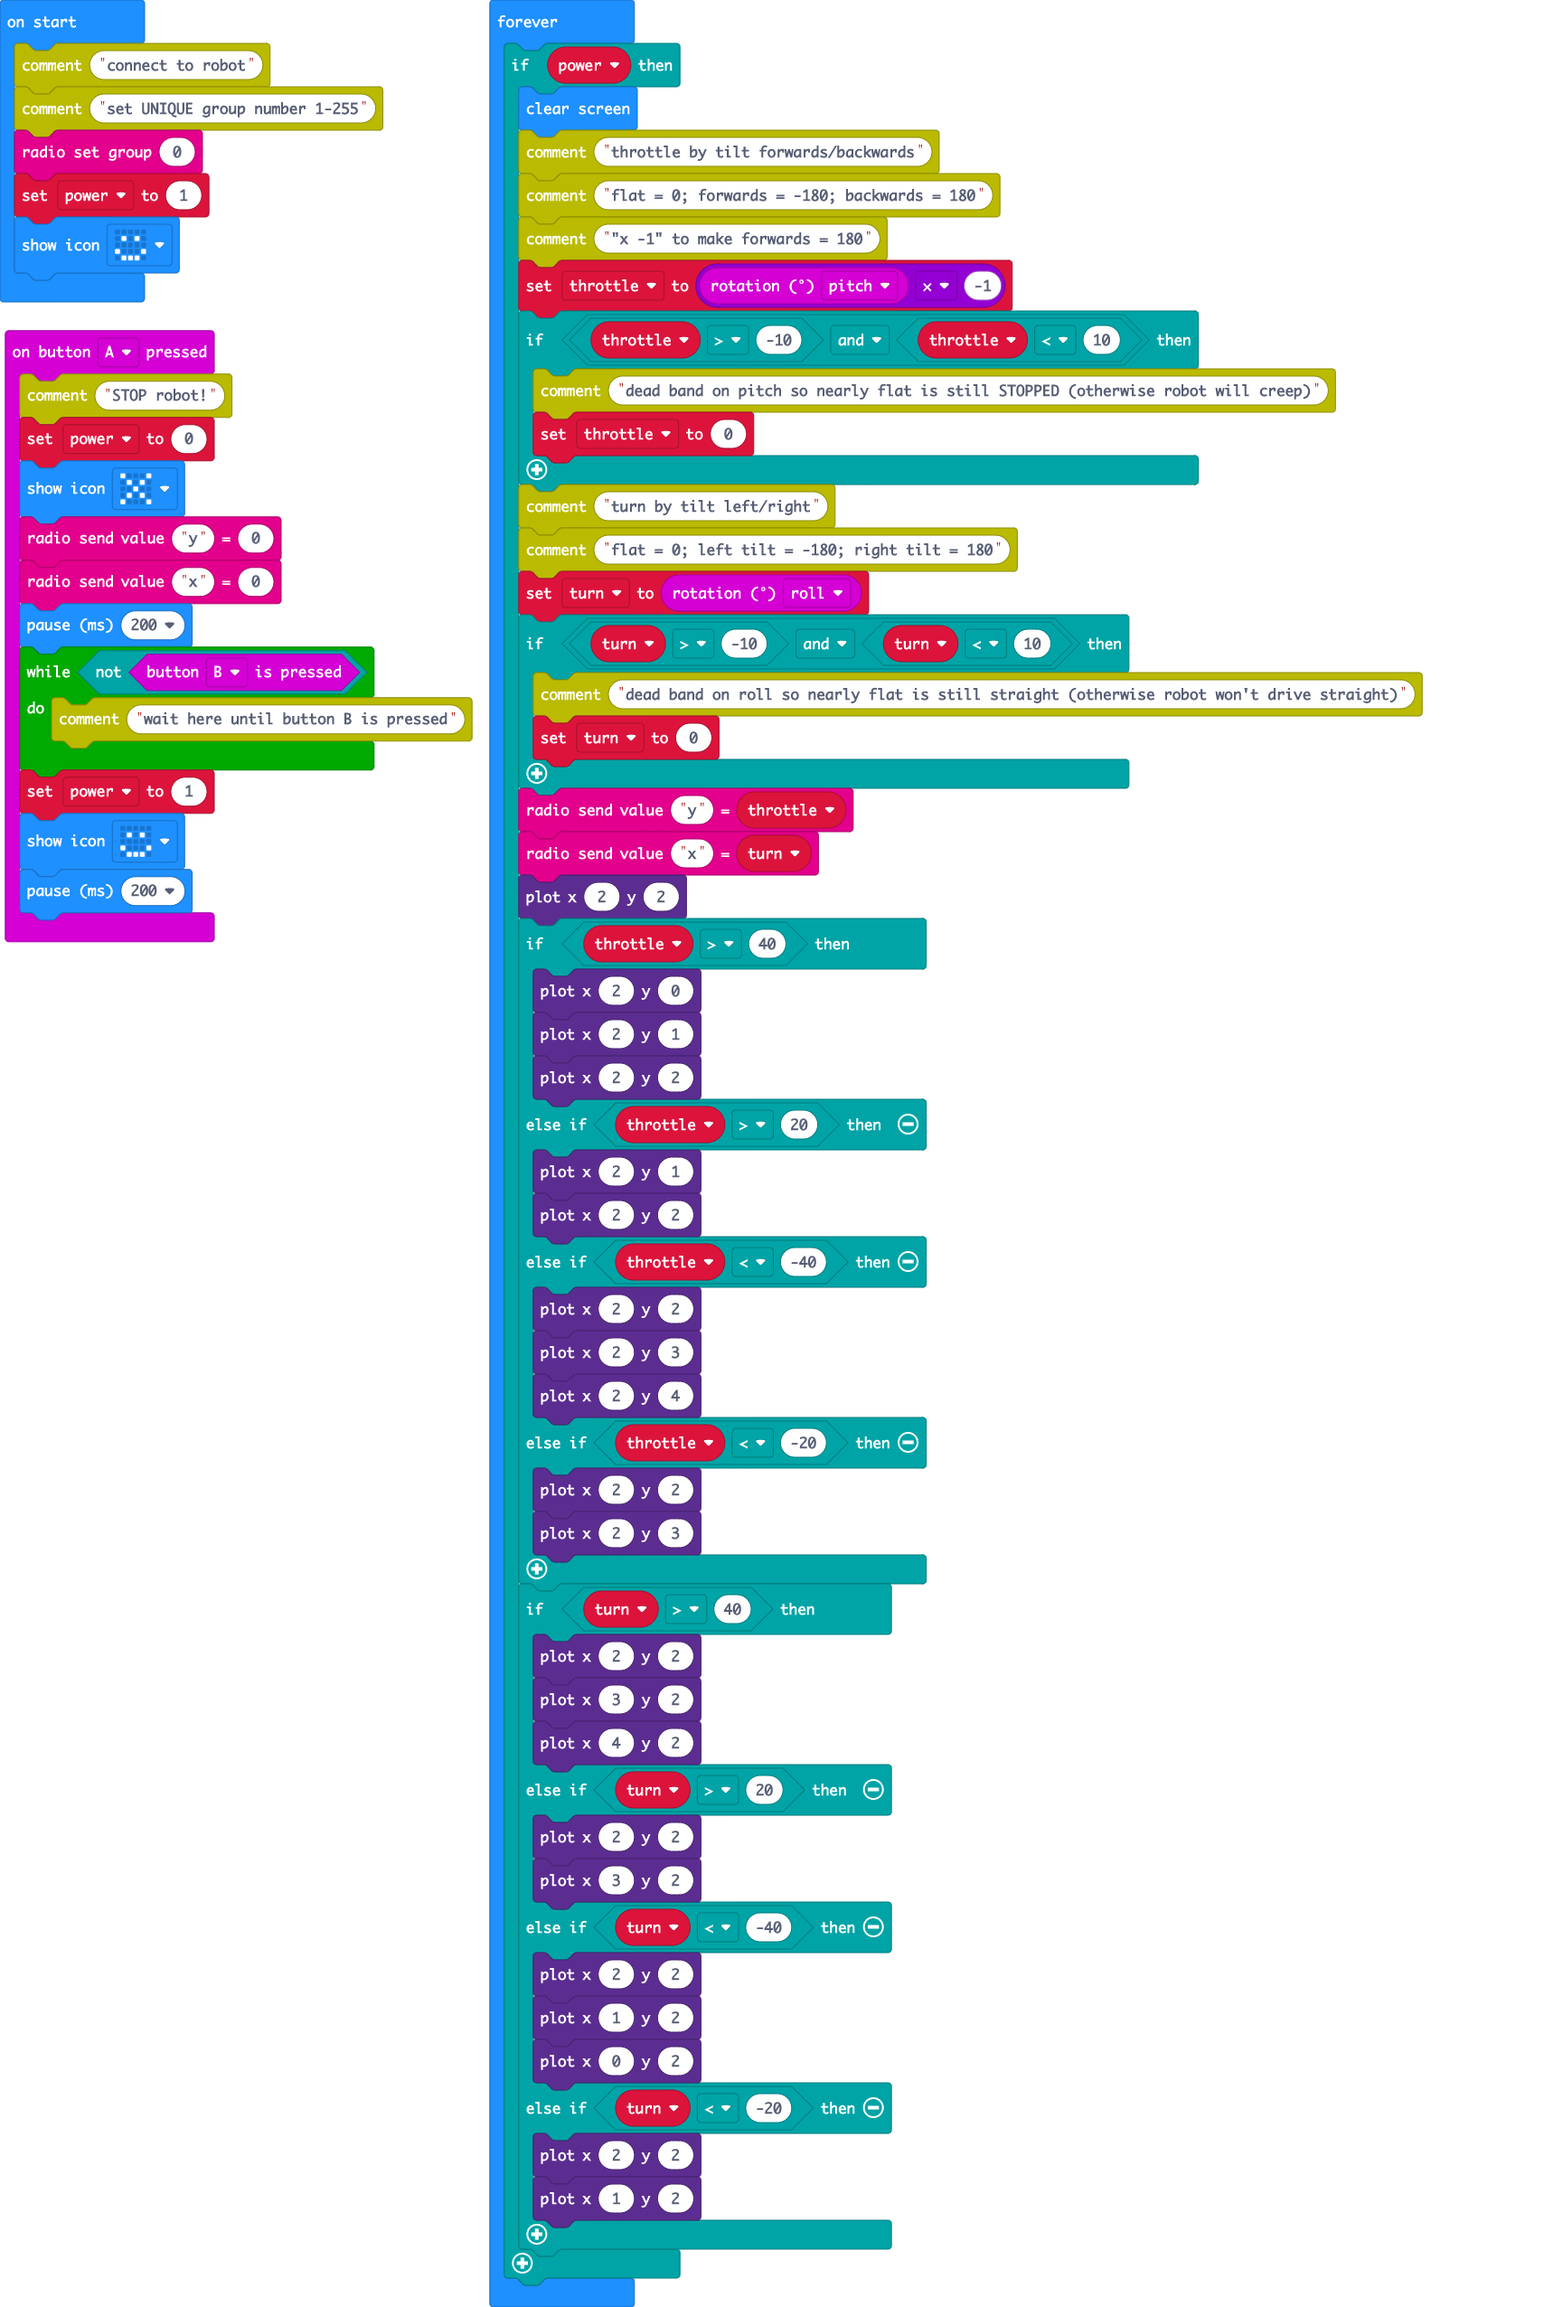
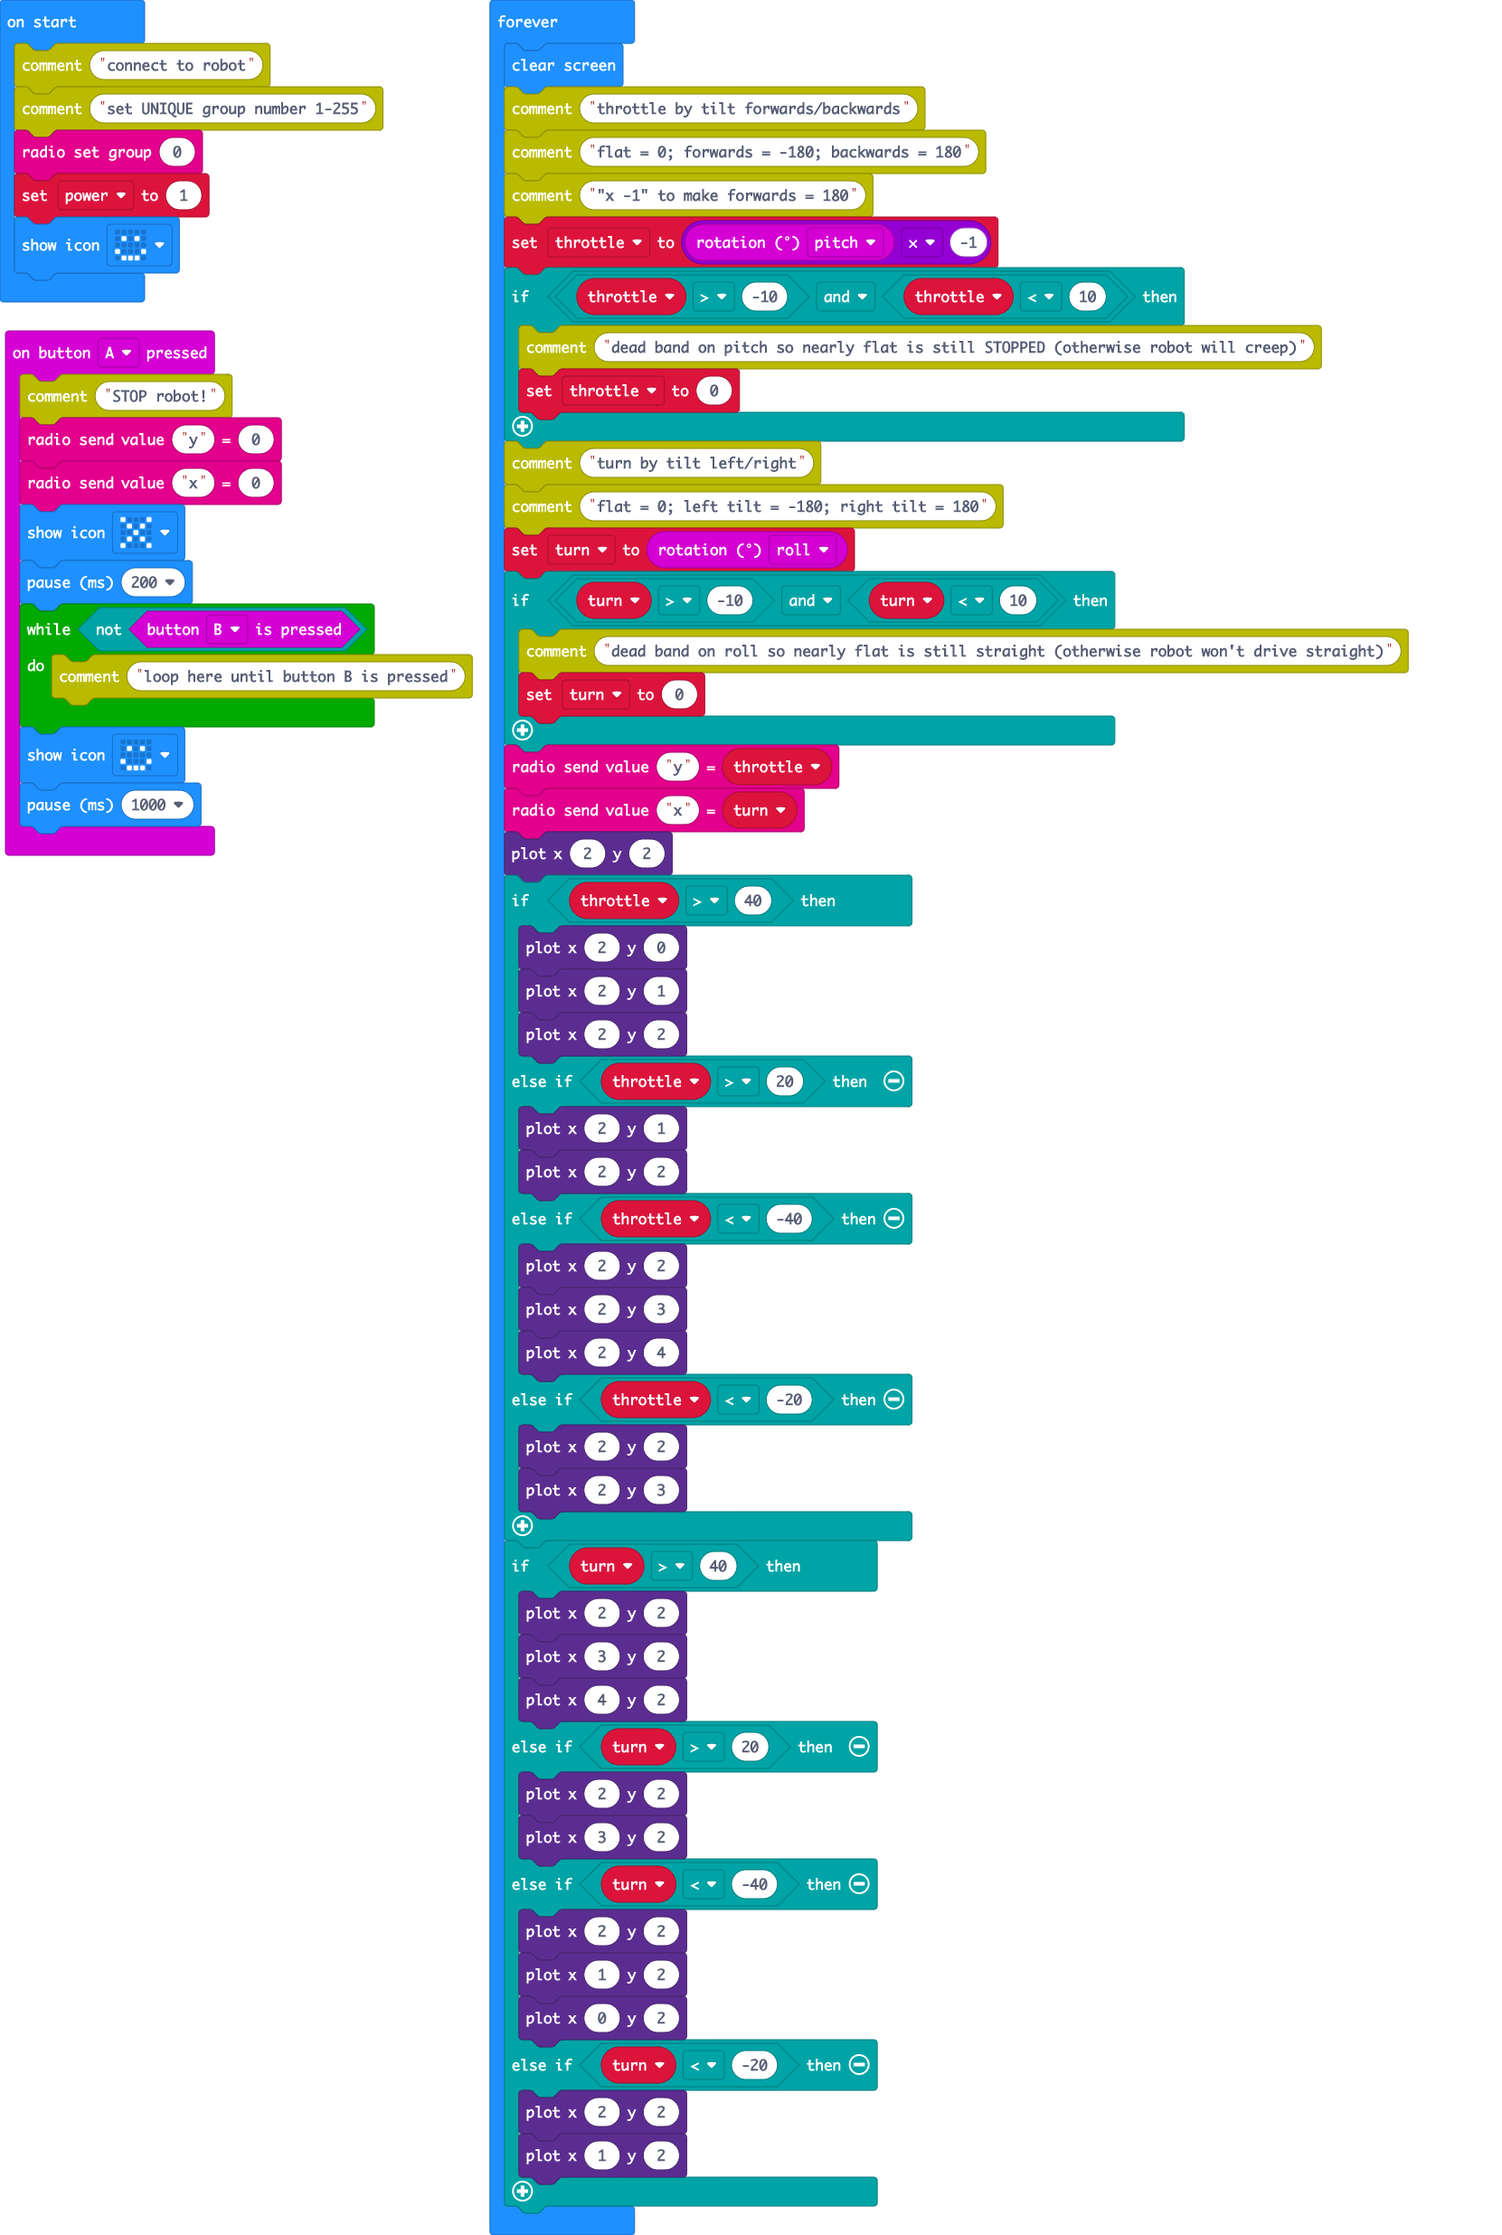
Update main.blocks, main.ts

Changed region(s): [[0.0, 0.0, 0.9518, 1.0]]

diff --git a/main.ts b/main.ts
@@ -1,75 +1,70 @@
 input.onButtonPressed(Button.A, function () {
     comment.comment("STOP robot!")
-    power = 0
-    basic.showIcon(IconNames.No)
     radio.sendValue("y", 0)
     radio.sendValue("x", 0)
+    basic.showIcon(IconNames.No)
     basic.pause(200)
     while (!(input.buttonIsPressed(Button.B))) {
-        comment.comment("wait here until button B is pressed")
+        comment.comment("loop here until button B is pressed")
     }
-    power = 1
     basic.showIcon(IconNames.Happy)
-    basic.pause(200)
+    basic.pause(1000)
 })
 let turn = 0
 let throttle = 0
-let power = 0
 comment.comment("connect to robot")
 comment.comment("set UNIQUE group number 1-255")
 radio.setGroup(0)
-power = 1
+let power = 1
 basic.showIcon(IconNames.Happy)
 basic.forever(function () {
-    if (power) {
-        basic.clearScreen()
-        comment.comment("throttle by tilt forwards/backwards")
-        comment.comment("flat = 0; forwards = -180; backwards = 180")
-        comment.comment("\"x -1\" to make forwards = 180")
-        throttle = input.rotation(Rotation.Pitch) * -1
-        if (throttle > -10 && throttle < 10) {
-            comment.comment("dead band on pitch so nearly flat is still STOPPED (otherwise robot will creep)")
-            throttle = 0
-        }
-        comment.comment("turn by tilt left/right")
-        comment.comment("flat = 0; left tilt = -180; right tilt = 180")
-        turn = input.rotation(Rotation.Roll)
-        if (turn > -10 && turn < 10) {
-            comment.comment("dead band on roll so nearly flat is still straight (otherwise robot won't drive straight)")
-            turn = 0
-        }
-        radio.sendValue("y", throttle)
-        radio.sendValue("x", turn)
+    basic.clearScreen()
+    comment.comment("throttle by tilt forwards/backwards")
+    comment.comment("flat = 0; forwards = -180; backwards = 180")
+    comment.comment("\"x -1\" to make forwards = 180")
+    throttle = input.rotation(Rotation.Pitch) * -1
+    if (throttle > -10 && throttle < 10) {
+        comment.comment("dead band on pitch so nearly flat is still STOPPED (otherwise robot will creep)")
+        throttle = 0
+    }
+    comment.comment("turn by tilt left/right")
+    comment.comment("flat = 0; left tilt = -180; right tilt = 180")
+    turn = input.rotation(Rotation.Roll)
+    if (turn > -10 && turn < 10) {
+        comment.comment("dead band on roll so nearly flat is still straight (otherwise robot won't drive straight)")
+        turn = 0
+    }
+    radio.sendValue("y", throttle)
+    radio.sendValue("x", turn)
+    led.plot(2, 2)
+    if (throttle > 40) {
+        led.plot(2, 0)
+        led.plot(2, 1)
         led.plot(2, 2)
-        if (throttle > 40) {
-            led.plot(2, 0)
-            led.plot(2, 1)
-            led.plot(2, 2)
-        } else if (throttle > 20) {
-            led.plot(2, 1)
-            led.plot(2, 2)
-        } else if (throttle < -40) {
-            led.plot(2, 2)
-            led.plot(2, 3)
-            led.plot(2, 4)
-        } else if (throttle < -20) {
-            led.plot(2, 2)
-            led.plot(2, 3)
-        }
-        if (turn > 40) {
-            led.plot(2, 2)
-            led.plot(3, 2)
-            led.plot(4, 2)
-        } else if (turn > 20) {
-            led.plot(2, 2)
-            led.plot(3, 2)
-        } else if (turn < -40) {
-            led.plot(2, 2)
-            led.plot(1, 2)
-            led.plot(0, 2)
-        } else if (turn < -20) {
-            led.plot(2, 2)
-            led.plot(1, 2)
-        }
+    } else if (throttle > 20) {
+        led.plot(2, 1)
+        led.plot(2, 2)
+    } else if (throttle < -40) {
+        led.plot(2, 2)
+        led.plot(2, 3)
+        led.plot(2, 4)
+    } else if (throttle < -20) {
+        led.plot(2, 2)
+        led.plot(2, 3)
+    }
+    if (turn > 40) {
+        led.plot(2, 2)
+        led.plot(3, 2)
+        led.plot(4, 2)
+    } else if (turn > 20) {
+        led.plot(2, 2)
+        led.plot(3, 2)
+    } else if (turn < -40) {
+        led.plot(2, 2)
+        led.plot(1, 2)
+        led.plot(0, 2)
+    } else if (turn < -20) {
+        led.plot(2, 2)
+        led.plot(1, 2)
     }
 })
